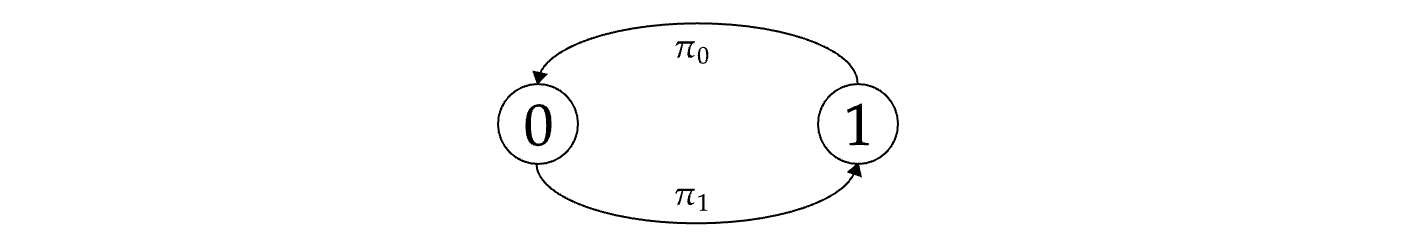
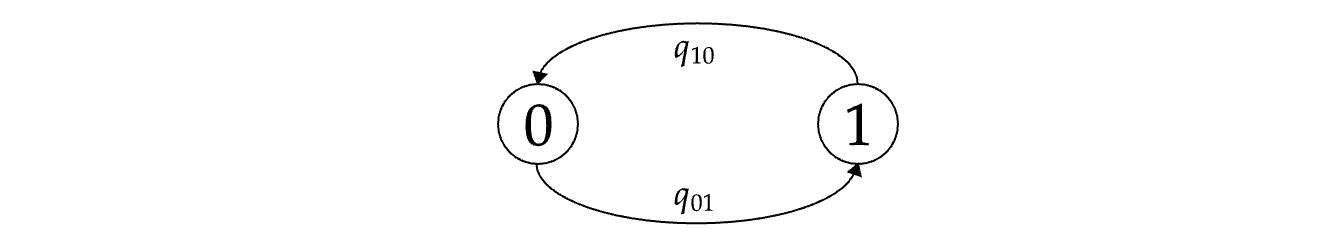
updates from today's writing

diff --git a/report/background/background.tex b/report/background/background.tex
@@ -6,20 +6,20 @@ This chapter provides the mathematical foundation for the simulation study found
 
 \section{Bayesian Phylogenetic Inference}
 \label{sec:phylogenetictrees}
-We start by considering the space of phylogenetic trees $\mathcal{T}$, building on the earlier definitions found in Chapter \ref{sec:introduction}. In particular, we focus our discussion on the space of bifurcating trees that have branches with lengths proportional to time, and assume that lexical data $\mathbf{D}$ can be generated via evolutionary models with parameteres $\boldsymbol{\theta}^* \in \boldsymbol{\Theta}$ on a true tree $T^* \in \mathcal{T}$.
+We start by considering the space of language (or in this case, phylogenetic) trees $\mathcal{T}$, building on the earlier definitions found in Chapter \ref{sec:introduction}. In particular, we focus our discussion on the space of bifurcating trees that have branches with lengths proportional to time, and assume that lexical data $\mathbf{D}$ can be generated via evolutionary models with parameteres $\boldsymbol{\theta}^* \in \boldsymbol{\Theta}$ on a true tree $T^* \in \mathcal{T}$.
 
 When considering phylogenetic trees in a Bayesian setting, 
 a natural starting point is to consider Bayes' theorem in the given context:
 
 \begin{definition} [Bayes' theorem]
-    For a given data set $\mathbf{D} \in [0, 1]^{n \times S}$ and model parameters $\boldsymbol{\theta} \in \boldsymbol{\Theta}$, we consider a tree $T \in \mathcal{T}$. Bayes' theorem states that the probability of the tree given the data and evolutionary model (the \textbf{posterior} probability) is proportional to the probability of observing the data given the tree and the evolutionary model (the \textbf{likelihood}) multiplied by the joint probability of the tree and evolutionary model (the joint \textbf{priors}):
+    For a given data set $\mathbf{D} \in \{0, 1\}^{n \times S}$ and model parameters $\boldsymbol{\theta} \in \boldsymbol{\Theta}$, we consider a tree $T \in \mathcal{T}$. Bayes' theorem states that the probability of the tree given the data and evolutionary model (the \textbf{posterior} probability) is proportional to the probability of observing the data given the tree and the evolutionary model (the \textbf{likelihood}) multiplied by the joint probability of the tree and evolutionary model (the joint \textbf{priors}):
     \begin{align}
         P(T | \mathbf{D}, \boldsymbol{\theta}) &= \frac{P(\mathbf{D} | T, \boldsymbol{\theta})P(T, \boldsymbol{\theta})}{P(\mathbf{D})} \\
         &\propto P(\mathbf{D} | T, \boldsymbol{\theta})P(T,\boldsymbol{\theta}) \label{eq:bayestheorem}
     \end{align}
 \end{definition}
 
-We note that (\ref{eq:bayestheorem}) follows naturally since we can treat $P(\mathbf{D})$ as a constant. Additionally, consider $\boldsymbol{\theta}$ as the set of all model parameters from the evolutionary model and the tree prior. Our goal is to find the posterior distribution $P(T | \mathbf{D}, \boldsymbol{\theta})$, either by direct calculation or by generating samples that follow it. However, due to the intractability of $P(\mathbf{D})$, it is unfeasible to explore the former method. We are therefore required to generate samples (of trees in space $\mathcal{T}$) that take on the posterior distribution. In many Bayesian methods, this requires defining and calculating likelihood $P(\mathbf{D} | T, \boldsymbol{\theta})$ and priors $P(T, \boldsymbol{\theta})$.
+We note that (\ref{eq:bayestheorem}) follows naturally since we can treat $P(\mathbf{D})$ as a (unknown) constant. Additionally, consider $\boldsymbol{\theta}$ as the set of all model parameters from the evolutionary model and the tree prior. Our goal is to model the distribution of trees informed by the data and the parameters, or the posterior distribution $P(T | \mathbf{D}, \boldsymbol{\theta})$, either by direct calculation or by generating samples that follow it. However, due to the intractability of $P(\mathbf{D})$, it is unfeasible to explore the former method. We are therefore required to generate samples (of trees in space $\mathcal{T}$) that take on the posterior distribution. In many Bayesian methods, this requires defining and calculating likelihood $P(\mathbf{D} | T, \boldsymbol{\theta})$ and priors $P(T, \boldsymbol{\theta})$.
 
 \subsection{Tree Priors: Yule models}
 We first consider defining the prior of the model, by decomposing it further as
@@ -28,14 +28,14 @@ We first consider defining the prior of the model, by decomposing it further as
 \end{equation}
 where $P(T|\boldsymbol{\theta})$ represents the tree prior, while $P(\boldsymbol{\theta})$ considers the (joint) distribution of all parameters of the model. While there exists many methods of generating trees, there are only a select few which are applicable in the context of historical linguistics \cite{hoffmann_bayesian_2021}. We limit our discussion to an elaboration of a the Yule model, common tree prior used in Bayesian phylogenetic model.
 
-The Yule model {\color{red} citation needed} can be defined as a pure birth process (see Definition \ref{def:birthprocess}) with a single intensity $\lambda \geq 0$, where $N_t$ refers to the number of branches at time $t$, $N_0 = 1$. We make a distinction here that the model is generated from the ancestral lineage and thus encodes time $0$ as the oldest point of the analysis, while final time $T$ where there are $n$ tips for $n$ languages represents the present. This is contrary to the common representation of time in phylogenetic analysis, where time $0$ represents the present age, or agglomerative tree generation methods like the coalescent process. Conditioning on the tree having $n$ tips and root age $T$, the prior distribution takes on form {\color{red}{citation required}}:
+The Yule model \cite{Yule1925} can be defined as a pure birth process (see Definition \ref{def:birthprocess}) with a single intensity $\lambda \geq 0$, where $N_t$ refers to the number of branches at time $t$, $N_0 = 1$. We make a distinction here that the model is generated from the ancestral lineage and thus encodes time $0$ as the oldest point of the analysis, while final time $T$ where there are $n$ tips for $n$ languages represents the present. This is contrary to the common representation of time in phylogenetic analysis, where time $0$ represents the present age, or agglomerative tree generation methods like the coalescent process. Conditioning on the tree having $n$ tips and root age $T$, the prior distribution takes on form \cite{Gernhard2008}:
 \begin{equation}
 \label{eq:yuleprior}
-    P(T | \lambda, T, n) = n! \lambda^{n-1}\prod_{i=1}^{n-1}\exp(-\lambda T)
+    P(T | \lambda, n) = n! \lambda^{n-1}\prod_{i=1}^{n-1}\exp(-\lambda T)
 \end{equation}
 where $\lambda$ is the only relevant parameter in $\boldsymbol{\theta}$ that affects the tree prior.
 
-\begin{definition} [Birth Process {\color{red} citation needed}]
+\begin{definition} [Birth Process \cite{Durrett2016}]
 \label{def:birthprocess}
 A birth process with intensity $\lambda \geq 0$ is a continuous-time stochastic process $\{N_t\}_{t \geq 0}$ with values in $\mathbb{N}_0$ that satisfies:
 \begin{enumerate}
@@ -53,9 +53,10 @@ A birth process with intensity $\lambda \geq 0$ is a continuous-time stochastic 
 where function $f$ is $o(\delta)$ if $\lim\limits_{\delta \to 0^+} \frac{f(\delta)}{\delta} = 0$.
 \end{definition}
 
-This model, as with all tree priors, incorporates the linguistic assumption that language diversify through repeated divergence events without horizontal transfer. As such, this adds a slight complexity to data generation: words or lexical items that are borrowed must be removed, which may require further linguistic arguments to determine \cite{Campbell2004}. We also note that due to the single arrival characteristic of Yule model, only bifurcating trees are generated. Moreover, since the model does not allow for deaths to occur, the model generates rooted binary trees whose tips are all extant languages. This means that all trees generated by the Yule model are \textit{ultrametric}, where the distance from (or age of) the root from every language is identical. {\color{red} maybe it's worth having a figure for ultrametric trees?} This presents an additional assumption of employing such a method: all languages are assumed to be extant at the present age. While this reduces the complexity of the model and reduces the number of parameters introduced by the tree prior (and thus simplifying (\ref{eq:yuleprior})), this means that any dataset that includes extinct languages in its dataset is misspecified by such a model and may introduce bias, especially with respect to rates of evolution and node ages \cite{hoffmann_bayesian_2021}. As such, other tree priors like birth-death processes would be of interest {\color{red} citation needed}. For the purposes of this simulation study, we will assume that all languages are extant.
+This model, as with all tree priors, incorporates the linguistic assumption that language diversify through repeated divergence events without horizontal transfer. As such, this adds a slight complexity to data generation: words or lexical items that are borrowed must be removed, which may require further linguistic arguments to determine \cite{Campbell2004}. We also note that due to the single arrival characteristic of Yule model, only bifurcating trees are generated. Moreover, since the model does not allow for deaths to occur, the model generates rooted binary trees whose tips are all extant languages. This means that all trees generated by the Yule model are \textit{ultrametric}, where the distance from (or age of) the root from every language is identical. {\color{red} maybe it's worth having a figure for ultrametric trees?} This presents an additional assumption of employing such a method: all languages are assumed to be extant at the present age. While this reduces the complexity of the model and reduces the number of parameters introduced by the tree prior (and thus simplifying (\ref{eq:yuleprior})), this means that any dataset that includes extinct languages in its dataset is misspecified by such a model and may introduce bias, especially with respect to rates of evolution and node ages \cite{hoffmann_bayesian_2021}. As such, other tree priors like birth-death processes would be of interest \cite{Gernhard2008}. For the purposes of this simulation study, we will assume that all languages are extant.
 
 \subsection{Evolution Model: Continuous-Time Markov Models}
+\label{sec:ctmc}
 Having defined the tree prior, evolutionary models attempt to explain the presence or absence of sites across the languages of the model. Since the data is binary, we need only consider two types of states: the presence (1) or absence (0) of a site. As the model is defined on continuous time, the binary continuous-time Markov chain (CTMC) model is a natural method to define the evolutionary process.
 
 Several assumptions have to be made to employ such a model. Firstly, the evolutionary process assumes the Markov property (see Definition \ref{def:markov}), which can be clearly justified in the context of historical linguistics. This induces the infinitesimal rate (or \textit{generator}) matrix $\mathbf{G} := (g_{ij})$ (see Definition \ref{def:generator}), which results in a time-dependent transition probability matrix to be the entries of the matrix\footnote{See Appendix \ref{app:transprob} for full proof of \ref{eq:transitionmatrixevolution}.}:
@@ -64,16 +65,16 @@ Several assumptions have to be made to employ such a model. Firstly, the evoluti
     \mathbf{P}(t) = \exp(\mathbf{G}t).
 \end{equation}
 
-\begin{definition} [Markov Property {\color{red} citation needed}]
+\begin{definition} [Markov Property \cite{Durrett2016}]
 \label{def:markov}
     A continuous-time process $\{X_t\}_{t \geq 0}$ defined on state space $E = \{0, 1\}$ satisfies the Markov property if 
     \begin{equation}
         P\left(X_{t_n} = i_n | X_{t_{n-1}} = i_{n-1}, \dots, X_{t_1} = i_{n-1}\right) = P\left(X_{t_n} = i_n | X_{t_{n-1}} = i_{n-1}\right),
     \end{equation}
-    for all $i_1, \dots i_n \in E, \ 0 \leq t_1 < \cdots < t_n < \infty$, where $n \in \mathbb{N}$.
+    for all $i_1, \dots, i_n \in E, \ 0 \leq t_1 < \cdots < t_n < \infty$, where $n \in \mathbb{N}$.
 \end{definition}
 
-\begin{definition} [Generator {\color{red} citation needed}]
+\begin{definition} [Generator \cite{Durrett2016}]
 \label{def:generator}
     The generator $\mathbf{G} := (g_{ij})_{i, j \in E}$ of the family of transition probability matrices $\{\mathbf{P}_t | t\geq 0 \}$ is given as 
     \begin{equation}
@@ -104,7 +105,24 @@ where the $-$ are the conventional notation used implied diagonal entries as def
     \label{fig:markovchain}
 \end{figure}
 
-For a simulation study, the generation of data through such evolutionary processes require particular consideration. For a given tree $T$, at each site, the state at the root is sampled and propagated down the tree via the CTMC model along each branch that has transition probabilities $\mathbf{P}(t)$ via (\ref{eq:transitionmatrixevolution}). This results in the generation of the site $\mathbf{D}_i$. If the assumption of conditional site independence is held, the process is repeated for every single site until the full binary data matrix $\mathbf{D} \in [0, 1]^{n \times S}$ is generated. This generation process is defined in Algorithm \ref{algo:ctmcdatageneration}. 
+We are thus able to calculate the likelihood $P(\mathbf{D}|T, \boldsymbol{\theta})$ for the model. For the sake of demonstration, we illustrate the likelihood only for a single site $\mathbf{D}_i$, saving full derivations for $\mathbf{D}$ in Sections \ref{sec:independent} and \ref{sec:dependent}. Given the binary phylogenetic tree $T = (V, E, r)$ with $n$ observed languages, where sites evolve via a binary CTMC with generator $\mathbf{G}$ and stationary distribution $\boldsymbol{\pi}$, the likelihood for a site $\mathbf{D}_i$ is
+
+\begin{align}
+    P(\mathbf{D}_i | T, \mathbf{G}, \boldsymbol{\pi}) &= \sum_{\mathbf{x}_W \in \{0, 1\}^{|W|}} P(\mathbf{D}_i, \mathbf{x}_W | T, \mathbf{G}, \boldsymbol{\pi}) \\
+    &= \sum_{\mathbf{x}_W \in \{0, 1\}^{|W|}} P(X_r = x_r) P(\mathbf{D}_i, \mathbf{x}_{W \setminus \{r\}} | T, \mathbf{G}, X_r = x_r) \\
+    &= \sum_{\mathbf{x}_W \in \{0, 1\}^{|W|}} P(X_r = x_r) \prod_{(u, v) \in E} P(X_v = x_v | X_u = x_u), 
+\end{align}
+
+where $X_u$ is the random variable of the state at node $u$, and we employed the Markov property of the CTMC model. As defined previously, the first term corresponds to the stationary distribution $\boldsymbol{\pi}$ This reduces the problem to calculating transition probabilities, where (\ref{eq:transitionmatrixevolution}) is most relevant. This gives the expression
+
+\begin{align}
+    P(\mathbf{D}_i | T, \mathbf{G}, \boldsymbol{\pi}) &= \sum_{\mathbf{x}_W \in \{0, 1\}^{|W|}} \pi_{x_r} \prod_{(u, v) \in E} \mathbf{P}(t_{u\to v})_{x_u x_v} \\
+    &= \sum_{\mathbf{x}_W \in \{0, 1\}^{|W|}} \pi_{x_r} \prod_{(u, v) \in E} \exp(\mathbf{G}t_{u\to v})_{x_u x_v} \label{eq:sitelikelihood}
+\end{align}
+
+This decomposition is inefficient for large values of $n$: the set of internal nodes $W$ grows linearly with $n$, thus exponentially increases the number of internal terms in the sum of (\ref{eq:sitelikelihood}). Felsenstein (1973) introduced an efficient ``pruning'' method {\cite{Felsenstein1973}}, exploiting the structure of the tree to recursively evaluate likelihoods of subtrees \cite{Felsenstein2004}. This allows for efficient likelihood calculation that grows linearly rather than exponentially with $n$.
+
+For a simulation study, the generation of data through such evolutionary processes require particular consideration. For a given tree $T$, at each site, the state at the root is sampled and propagated down the tree via the CTMC model along each branch that has transition probabilities $\mathbf{P}(t)$ via (\ref{eq:transitionmatrixevolution}). This results in the generation of the site $\mathbf{D}_i$. If the assumption of conditional site independence is held, the process is repeated for every single site until the full binary data matrix $\mathbf{D} \in \{0, 1\}^{n \times S}$ is generated. This generative process is defined in Algorithm \ref{algo:ctmcdatageneration}. 
 
 \begin{algorithm}
 \SetAlgoLined
@@ -114,7 +132,7 @@ For a simulation study, the generation of data through such evolutionary process
 \SetKwProg{Fn}{Function}{}{end}
 \LinesNumbered
 \KwInput{
-    $T$, fixed topology tree with root $r$ of $n$ languages, where each edge $e$ has branch length $t_e$, \\
+    $T$, fixed topology tree with root $r$ of $n$ languages, where each edge $e := (u \to v)$ has branch length $t_e$, \\
     $\mathbf{G}$, rate matrix with parameters $\beta\pi_0, \beta\pi_1$, \\
     $\boldsymbol{\pi}$, stationary distribution of CTMC, \\
     $S$, number of sites of data.
@@ -124,55 +142,179 @@ For a simulation study, the generation of data through such evolutionary process
 \KwOutput{$\mathbf{D} \in [0,1]^{n\times S}$, where sites are columns $\mathbf{D}_1, \dots, \mathbf{D}_S$.}
 \BlankLine
 
-\Fn{Propagate(parent $p$, $\mathbf{G}$, children $(c_1, c_2)$, edge lengths $(t_{p \to c_1}, t_{p \to c_2})$)} {
-    \textbf{if} no children, \textbf{then} \Return; \\
-    $P_p = \exp(\mathbf{G}t_p)$; \\
-    $X_{c_1}, X_{c_2} \sim P_p(X_p, \cdot)$ independently; \\
-    \textit{Propagate}($c_1$, $\mathbf{G}$, children of $c_1$, corresponding edge lengths); \\
-    \textit{Propagate}($c_2$, $\mathbf{G}$, children of $c_2$, corresponding edge lengths);
+\Fn{Propagate($v$, $x_v$)}{
+    \For{each child $c$ of $v$}{
+        Let $e = (v \to c)$ with branch length $t_e$; \\
+        Compute transition matrix $P_e = \exp(\mathbf{G} t_e)$; \\
+        Sample:
+        \[
+        x_c \sim P_e(x_v, \cdot)
+        \] \\
+        \textit{Propagate}($c$, $x_c$);
+    }
 }
 \BlankLine
-\Fn{SiteGeneration($T$, $\mathbf{G}$, $\boldsymbol{\pi}$)} {
-    Sample root state $X_r \sim \boldsymbol{\pi}$; \\
-    \textit{Propagate}($r$, $\mathbf{G}$, children of $r$, corresponding edge lengths); \\
-\Return $\mathbf{D}_i = (X_1, \dots X_n)^T$
+\Fn{SiteGeneration($T$, $\mathbf{G}$, $\boldsymbol{\pi}$)}{
+    Sample root state:
+    \[
+    x_r \sim \boldsymbol{\pi}
+    \] \\
+    \textit{Propagate}($r$, $x_r$); \\
+    \Return vector of language states $(x_1, \dots, x_n)^T$
 }
 \BlankLine
-\textbf{for} $i = 1, ... S$ \textbf{do} $\mathbf{D}_i$ = \textit{SiteGeneration}(T, $\mathbf{G}$, $\boldsymbol{\pi}$)
-\BlankLine
+\For{$i = 1, \dots, S$}{
+    $\mathbf{D}_i \leftarrow$ \textit{SiteGeneration}($T$, $\mathbf{G}$, $\boldsymbol{\pi}$)
+}
+
 \Return $\mathbf{D} = (\mathbf{D}_1 \cdots \mathbf{D}_S)$
+
 
  \caption{Data Generation from binary CTMC model}
  \label{algo:ctmcdatageneration}
 \end{algorithm}
 
-{\color{red} good and bad of the model}
+The binary CTMC model is highly favoured since it is highly parsimonious and is computationally tractable. The evolution model introduces few parameters as discussed above, making likelihood calculations and thus Bayesian phylogenetic inference more efficient. However, these constraints insert more assumptions about the homogeneity and memorylessness properties of transitions between only two states, which may be an oversimplification of the complexity of evolution in real languages. Studies have shown that more complex models such as the binary covarion model \cite{Tuffley1998} perform better on linguistic data through allowing slow and fast rates of change \cite{hoffmann_bayesian_2021}. 
 
-{\color{red} Rate variation: Am i even doing that} 
+For the context of the simulation study conducted in this thesis, we limit our discussion and implementation to the binary CTMC. This provides a powerful baseline model to study the effects of model misspecification, where more complex evolutionary models can be discussed in future work.
+
+\subsection{Rate Variation}
+\label{sec:ratevariation}
+As noted by Bergsland and Vogt (1962), the rates of evolution across lineages and subsets of data varies considerably \cite{Bergsland1962}. For example, sites belonging to a meaning with few cognates have been shown to empirically evolve more slowly than a meaning with many cognates \cite{Pagel2006}. In order to accommodate for this, a site-specific rate multiplier $r_i$ is included in (\ref{eq:transitionmatrixevolution}). This includes $S$ more parameters for model, where the method of generating these rates (and thus their priors) is most commonly a Gamma distribution with mean $1$ and shape parameter $\alpha$ \cite{hoffmann_bayesian_2021}. Such a method preserves the expected rates, while allowing for substantial variation across sites. In practice, this improves the model by measuring heterogeneity of site evolution, which may support fitting real language data. 
+
+For the sake of the simulation study contained within this thesis, rate variation is intentionally excluded - all sites are assumed to evolve with a fixed rate $r_i = 1$. This is a design choice, with an objective to isolate the effects of model misspecification through conditional site independence. Allowing the rate variation would introduce additional structure that could confound inference, making it difficult to attribute observed effects as due to the violation of conditional site independence. This reduces the model to a \textit{homogeneous} CTMC model instead.
 
 \subsection{Posterior Sampling with Markov Chain Monte Carlo methods}
 \label{sec:mcmc}
-\subsection{Likelihood Computation}
-\label{sec:likelihoodcomputation}
+Having discussed the prior and likelihood probabilities, we are now well equipped to discuss sampling from the posterior.  As mentioned prior, the normalising constant of the posterior is often difficult to compute, which makes analytic expressions of the posterior distribution inaccessible. However, there are additional considerations in the context of historical linguistics, even if one were to apply a sampling based method. The size of the space of all possible binary phylogenetic trees $\mathcal{T}$ grows \textit{super}-exponentially (that is, grows at a rate faster than exponential increase) with the number of languages $n$ \cite{Schroeder1870}. In fact, the problem of finding the optimal tree is \textit{NP-hard} \cite{Foulds1982}. Moreover, the priors are defined on both discrete and continuous distributions, complicating the analysis of the model.
+
+These challenges motivate the use of simulation-based approaches to approximate the posterior distribution. Bayesian phylogenetic inference commonly relies on Markov Chain Monte Carlo (MCMC) methods to generate samples from $p^\star := P(T | \mathbf{D}, \boldsymbol{\theta})$ without the explicit computation of the normalising constant of ($\ref{eq:bayestheorem}$). The method attempts to construct a Markov chain of trees (and parameters) whose stationary distribution $\boldsymbol{\pi}$ is equal to $p^\star$, such that states of the chain are regarded as (dependent) samples from the posterior distribution. More formally, suppose we initialise the chain at some $\mathbf{z}^{(0)} = \{T^{(0)}, \boldsymbol{\theta}^{(0)}\}$, we generate chain $\{\mathbf{z}^{(1)}, \dots, \mathbf{z}^{(t)}, \dots\}$ such that $T^{(t)} \sim p^\star$ after the chain is allowed to mix for an amount of time called the \texttt{burnin}. 
+
+This subsection aims to explain the methodology used in MCMC. In practice, these considerations within the algorithm have been neatly summarised in packages and applications such as BEAST, which will be discussed in Section \ref{sec:beast}.
+
+As the name of the algorithm suggests, the model generates a chain which fulfills the Markov property. This means that, given a current sample $\mathbf{z}^{(n)}$, in order to determine the next sample $\mathbf{z}^{(n+1)}$, we propose some $\mathbf{z}' \sim q(\cdot | \mathbf{z}^{(n)})$ by some \textit{proposal distribution} $q$, before assessing whether the proposal is suitable. 
+
+This proposal distribution $q$ is clearly multivariate in the context of historical linguistics, generating a new tree $T \in \mathcal{T}$ but also other parameters $\boldsymbol{\theta} \in \boldsymbol{\Theta}$. We assume that $q$ can be decomposed into independent proposals, particularly of $T$, and that all other parameters $\boldsymbol{\theta}$ can be proposed in a straightforward manner via conventional probability distributions. The proposal of a new tree $T'$ given tree $T^{(n)}$ is clearly non-trivial due to its non-Euclidean nature and requires extra treatment. There are many methods, such as the Nearest Neighbour Interchange (NNI) \cite{Li1996}, the Subtree Prune and Regraft (SPR) \cite{Hillis1996} and time-scaling operations, that generate a stochastic walk over the tree space $\mathcal{T}$. 
+
+Once the proposal $\mathbf{z}' = \{ T', \boldsymbol{\theta}' \}$ has been chosen via the proposal distribution $q$, it is evaluated based on an acceptance probability:
+
+\begin{align}
+    \alpha(\mathbf{z}^{(n)}, \mathbf{z}') &= \min \Bigg\{1, \frac{p^\star(\mathbf{z}')q(\mathbf{z}^{(n)}|\mathbf{z}')}{p^\star(\mathbf{z}^{(n)})q(\mathbf{z}'|\mathbf{z}^{(n)})}\Bigg\} \\
+    &= \min \Bigg\{1, \frac{P(\mathbf{D} | \mathbf{z}')P(\mathbf{z}')q(\mathbf{z}^{(n)}|\mathbf{z}')}{P(\mathbf{D} | \mathbf{z}^{(n)}))P(\mathbf{z}^{(n)}))q(\mathbf{z}'|\mathbf{z}^{(n)})}\Bigg\},\label{eq:mhacceptance}
+\end{align}
+
+that determines whether we accept the proposal as the next sample or not:
+\begin{align}
+    \mathbf{z}^{(n+1)} = \begin{cases}
+        \mathbf{z}' & \text{with probability } \alpha(\mathbf{z}^{(n)}, \mathbf{z}') \\
+        \mathbf{z}^{(n)} & \text{with probability } 1 - \alpha(\mathbf{z}^{(n)}, \mathbf{z}').
+    \end{cases}
+\end{align}
+
+Equation \ref{eq:mhacceptance} is paramount to the MCMC algorithm, state in full in Algorithm \ref{algo:mh}. The acceptance ratio is designed such that the resulting Markov chain $\{\mathbf{z}^{(1)}, \dots, \mathbf{z}^{(t)}, \dots\}$ has stationary distribution $p^\star$\footnote{The proof of which can be found in {\color{red} either prove it in Appendix B or link a proof of it}.}. Crucially, the method does not require the knowledge of marginal probability $P(\mathbf{D})$, which allows the acceptance probabilities to be easily calculated by decomposition of the posterior probabilities into the likelihood and prior probabilities. 
+
+% MCMC Algorithm
+\begin{algorithm}
+\SetAlgoLined
+\SetKwInOut{KwInput}{Input}
+\SetKwInOut{KwOutput}{Output}
+\SetKw{Return}{return}
+\SetKwProg{Fn}{Function}{}{end}
+\LinesNumbered
+\KwInput{
+    $N$, number of samples to be generated, \\
+    $\mathbf{z}^{(0)}$, starting point of Markov chain.
+}
+
+\BlankLine
+\KwOutput{$\mathbf{Z} = \{\mathbf{z}^{(1)}, \dots, \mathbf{z}^{(N)}\}$, resulting Markov chain with stationary distribution $p^\star$.}
+\BlankLine
+\For{$n = 1, \dots, N$}{
+    Sample proposal $\mathbf{z}' \sim q(\mathbf{z}^{(n-1)})$; \\
+    Calculate acceptance probability $\alpha(\mathbf{z}^{(n-1)}, \mathbf{z}')$ as in (\ref{eq:mhacceptance}); \\
+    Sample $u \sim \text{Uniform}[0, 1]$ \\
+    \eIf{$u < \alpha(\mathbf{z}^{(n-1)}, \mathbf{z}')$}{
+    \text{Accept Proposal: }
+    $\mathbf{z}^{(n)} \leftarrow \mathbf{z}'$;
+    }{
+    \text{Reject Proposal: }
+    $\mathbf{z}^{(n)} \leftarrow \mathbf{z}^{(n-1)}$;
+    }
+}
+
+\Return $\mathbf{Z} = \{\mathbf{z}^{(1)}, \dots, \mathbf{z}^{(N)}\}$
+
+
+ \caption{Metropolis-Hastings (MCMC) algorithm, adapted from \cite{Douc2019}.}
+ \label{algo:mh}
+\end{algorithm}
+
+As such, MCMC methods are elegant yet practical algorithms to resolve the issues faced in Bayesian phylogenetic inference. The method itself also allows for a natural quantification of uncertainty through the discretisation of the posterior distribution. Furthermore, the method is highly flexible and can incorporate models and priors more complex than has been discussed in Section \ref{sec:bayesianphylomethods} so far.
+
+However, MCMC methods suffer from several limitations. Given the Markov structure of the chain, proposals cannot be conducted and evaluated in parallel. The Markov structure also causes samples to be highly dependent, requiring a large number of iterations. These two limitations constrain MCMC methods to require a large number of samples, thus requiring much computational runtime. Additionally, inference may be sensitive to poor mixing and multimodality of the posterior distribution, which is a common issue considering the space of phylogenetic trees $\mathcal{T}$.
+
+In particular, the algorithm does not guard against model misspecification issues. For example, if the likelihood function is misspecified through the violation of the conditional site independence critierion, the model does not address the potential biases arising from violations of the underlying modelling assumptions.
+
+
+
 \subsection{Implementation in BEAST}
 \label{sec:beast}
+There are many packages available for practical implementations of MCMC methods on phylogenetic trees, one of which is the \textit{Bayesian Evolutionary Analysis Sampling Trees}, or BEAST algorithm \cite{beast_documentation}. Given the observed cognate data, BEAST samples from the posterior distribution and constructs a Markov chain as described in this section. In particular, tree space $\mathcal{T}$ is explored through a collection of local and global proposal operators to facilitate sufficient exploration. The package incorporates high performance computing methods \cite{beagle_documentation} outside the scope of this thesis that ensures an efficient practical implementation of the inference process.
+
+In this thesis, BEAST is used as the inference engine for all inferences as detailed in Chapter \ref{sec:methods}. This enables a scalable and streamlined pipeline for direct assessment of the effect of model misspecification through conditional site dependence.
 
 \section{Independent Paradigm}
 \label{sec:independent}
-        likelihood calculations, quality checks and convergence guarantees under such a model 
-        
-        can make this section + model misspecification its own chapter if its too long
+Having discussed the entire methodology to recover phylogenetic trees, we examine the conditional site independence assumption in more detail. In particular, the effects of imposing the assumption in data generation, likelihood and posterior calculations and effective information brought forward by the (generated) data $\mathbf{D}$ will be considered. 
+
+Under the \textit{independent paradigm}, that is, where the conditional site independence assumption is imposed, data generation for the simulation study is conducted in a straightforward manner as discussed in Section \ref{sec:ctmc}. In particular, Algorithm \ref{algo:ctmcdatageneration} is implemented to generate independent sites $\mathbf{D}_i$ for $i = 1, ..., S$, which ensures site independence throughout the data. 
+
+We return to the likelihood calculations in (\ref{eq:sitelikelihood}). Clearly, on considering the full dataset $\mathbf{D}$, we can decompose the probability into a product of likelihood calculations at each site:
+\begin{align}
+    P(\mathbf{D} | T, \boldsymbol{\theta}) &= \prod_{i=1}^S P(\mathbf{D}_i | T, \boldsymbol{\theta}) \\
+    &= \prod_{i=1}^S P(\mathbf{D}_i | T, \mathbf{G}, \boldsymbol{\pi}) \label{eq:independentbreakdown}
+    %&= \prod_{i=1}^S \left[\sum_{\mathbf{x}^{(i)}_W \in \{0, 1\}^{|W|}} \pi_{x^{(i)}_r} \prod_{(u, v) \in E} \exp(\mathbf{G}t_{u\to v})_{x_u x_v}\right]
+\end{align}
+This reduces the likelihood calculations (and thus also the posterior calculations) related to the independent paradigm to the simpler problem of calculating likelihoods of individual sites, where we only require Felsenstein's pruning algorithm as described in Section \ref{sec:ctmc}. 
+
+Intuitively, the independent paradigm also suggests that every new site provides an equal amount of information. As such, we can assume that as $S$ increases, the rate of increase of variance of sites should linearly increase. {\color{red} thinking if i should put in the effort to do this effective sample size thing. im too tired at this junction to think about math}.
+
+{\color{red} is it worth talking about the benefits here? probably not, but a light one if i think yes}
+
 \section{Dependent Paradigm}
 \label{sec:dependent}
-\subsection{ZIP Construction}
-\subsection{CTMC Product Construction}
-Transition diagram
-\subsection{Likelihood Computation}
+We turn our attention to the \textit{dependent paradigm}, where sites are not assumed to be generated independently from each other. The main implication of relaxing this assumption is that the decomposition in (\ref{eq:independentbreakdown}) is now invalid - we now have to consider how sites may interact with each other to determine the correct likelihood structure.
 
+While there are many approaches to construct such dependencies within simulated data $\mathbf{D}$, we focus our discussion on a methodology such that sites are generated in a hierarchial format. We construct $L$ tiers of data, where data from Tier $1$ refers to independently generated sites, while data from Tier $l = 2, ..., L$ are sites that are dependent on certain sites from Tier $l-1$. {\color{red} A diagram of the dependent data generation methodology is described in Figure \ref{fig:dependentgeneration}.} 
+
+\begin{figure}
+    \centering
+    % Probably a tikz picture?
+    % \includegraphics[width=0.5\linewidth]{}
+    \caption{A hierarchial approach to dependent site generation with $L$ tiers.}
+    \label{fig:dependentgeneration}
+\end{figure}
+
+This method thus requires us to answer two design questions:
+\begin{enumerate}
+    \item How does each site in Tier $l$ \textit{choose} which site (which we will call the \textit{parent} site) in Tier $l-1$ to depend on?
+    \item Upon choosing a parent site from Tier $l-1$, how is each dependent site (which we call the corresponding \textit{child} site) in Tier $l$ generated given the parent site?
+\end{enumerate}
+The answers to these questions then define the manner in which data is generated, and thus how likelihoods will be calculated. For the purposes of this simulation study, we generate dependencies via the Zero-Inflated Poisson (ZIP), discussed in Section \ref{sec:zip}, and generate dependent site values by considering the product of the result of CTMC runs, discussed in Section \ref{sec:ctmcproduct}.
+
+This method in particular is highly relevant to related works on dependent data. This hierarchial dependency structure corresponds to the issue posed by Maddison's red/blue tail problem \cite{Maddison1993}, where $L = 2$. Additionally, in the context of Bayesian phylolinguistic analysis, Buckley et al. (2025) considered loom data that also exhibited the same structure \cite{Buckley2025}, this time with $L = 4$. {\color{red} it might be worth saying that critics of the paper drew concerns about the model being misspecified on such data.} Consequently, investigating the extent of impact of applying Bayesian phylogenetic models, which assume conditional site independence, to hierarchially dependent data provides a frame of reference for assessing the consequences of model misspecification in settings where site dependencies are known or suspected to exist. Such analyses can thus address concerns of applying standard Bayesian phylogenetic models to data which exhibit such hierarchial dependency structures.
+
+\subsection{ZIP Construction}
+\label{sec:zip}
+{\color{red} define the ZIP poisson, FIND LITERATURE THAT DISCUSSES THIS MAYBE ON WIKIPEDIA, expectation and variance, maybe even a diagram if previous figure is not as descriptive on generation method}
+\subsection{CTMC Product Construction}
+\label{sec:ctmcproduct}
+{\color{red} Explanation of CTMC product. Derivation of transition diagram and thus exponential rates across two tiers (maybe more information needs to be derived?), and corresponding transition diagram. maybe something in between but im not sure. anyway end with the full algorithm for generating the data.}
+\subsection{Likelihood Computation}
+{\color{red} probably want to do a high level breakdown of how the likelihood should decompose, and then consider the case where we only have two sites, one dependent on the other, as a proof of concept of how everything else should cascade down.}
 \subsection{Model Misspecification}
 \label{sec:misspecification}
-    Model misspecification induced by dependence
-        Data generation under P\_dependent but being evaluated on model under P\_independent
+    {\color{red} Final bits about effective information if im going to talk about that. Attractiveness of the independent model - why would we even want to misspecify the model in the first place? it means the dependent model is too infeasibly difficult to explicitly calculate. thus what level of error are we willing to accept? yeah so i might want to make this its own section.}
 
 \section{Evaluation Metrics}
 \label{sec:evalmetrics}
@@ -184,12 +326,3 @@ Transition diagram
         Autocorrelation, and thus ESS 
         Mixing of chains (visual) 
         Thinning of data perhaps 
-
-\section{ (TBD) helpful things (subequations, algorithms)}
-To write equations over multiple lines (like systems of equation or equations too long to fit the page), one can use the \textit{align} environment coupled to the \textit{subequations} environment like so
-\begin{subequations}
-\begin{align}
-    \mathbb{P}(0 \leadsto -a) &= D\int_0^\infty dt\, k_r e^{-k_r t}\int_0^t d\tau\,\partial_x u \big|_{x=-a}, \\
-    \mathbb{P}(0 \leadsto b) &= -D\int_0^\infty dt\, k_r e^{-k_r t}\int_0^t d\tau\,\partial_x u \big|_{x=b}.
-\end{align}
-\end{subequations}

diff --git a/report/introduction/introduction.tex b/report/introduction/introduction.tex
@@ -237,7 +237,7 @@ where $r = 0.81$ represents the estimated proportion of lexical items retained p
 
 \section{Bayesian Phylogenetic Methods}
 \label{sec:bayesianphylomethods}
-Advanced quantitative methods have gained in popularity in recent years, in part due to advances in statistical methods, increased computational power and larger datasets \cite{Bhattacharya2018}. Through the seminal work of Gray and Atkinson (2003), Bayesian frameworks have become the primary method to infer topologies $T$ from $\mathbf{D}$. In particular, Gray and Atkinson (2003) compared languages to genes, thus applying phylogenetic methods from evolutionary biology to linguistic data \cite{Gray2003}. A Markov chain Monte Carlo (MCMC, see Section \ref{sec:bayesandmcmc}) method under a Bayesian framework was used to quantify uncertainty of the estimates, while applying a rate smoothing algorithm to relax the assumption of a universal constant $r$ as in \cite{Swadesh1952}. Such a method was applied on cognate data from 87 Indo-European languages to justify the age of the Proto-Indo-European root \cite{Gray2003}. 
+Advanced quantitative methods have gained in popularity in recent years, in part due to advances in statistical methods, increased computational power and larger datasets \cite{Bhattacharya2018}. Through the seminal work of Gray and Atkinson (2003), Bayesian frameworks have become the primary method to infer topologies $T$ from $\mathbf{D}$. In particular, Gray and Atkinson (2003) compared languages to genes, thus applying phylogenetic methods from evolutionary biology to linguistic data \cite{Gray2003}. A Markov chain Monte Carlo (MCMC, see Section \ref{sec:mcmc}) method under a Bayesian framework was used to quantify uncertainty of the estimates, while applying a rate smoothing algorithm to relax the assumption of a universal constant $r$ as in \cite{Swadesh1952}. Such a method was applied on cognate data from 87 Indo-European languages to justify the age of the Proto-Indo-European root \cite{Gray2003}. 
 
 The application of phylogenetic analysis in language evolution is a natural extension to the language tree diagrams (which we will denote phylogenetic trees or phylogenies from here on) introduced in Section \ref{sec:trees}. Historical linguistics has long understood language diversification as a branching process where descendant languages emerge through gradual divergence from common ancestral forms \cite{Pellard2026}, making language evolution almost analogous to genetic evolution in the diversification process. Consequently, computational techniques originally developed in evolutionary biology, such as likelihood-based inference and Bayesian tree reconstruction can be adapted to linguistic data \cite{Greenhill2009}. 
 
@@ -247,7 +247,7 @@ However, it would be unwise to blindly apply these methods directly to linguisti
 
 \subsection{Assumptions and Site Independence}
 We save most of the technical analysis of the Bayesian phylogenetic method to Section 
-\ref{sec:background} and focus our attention on assumptions of interest:  
+\ref{sec:background} and focus our attention here on assumptions of interest:  
 \begin{enumerate}
     \item Data Generation: Data $\mathbf{D} \in [0, 1]^{n \times S}$ is generated with respect to true tree $T^*$ and parameters $\boldsymbol{\theta}^*$ of the evolutionary model, which the Bayesian phylogenetic method will attempt to recover.
     \item Tree \& Model Priors: The trees $T \in \mathcal{T}$ and parameters $\boldsymbol{\theta} \in \boldsymbol{\Theta}$ are defined via prior distributions $p\left(T\right), p(\boldsymbol{\theta})$ respectively.
@@ -258,7 +258,7 @@ We save most of the technical analysis of the Bayesian phylogenetic method to Se
 
 These assumptions allow us to define a standard Bayesian phylogenetic framework, which inference is conducted through recovering posterior distributions over trees and the parameters given data $\mathbf{D}$. We consider the validity of these assumptions in the context of historical linguistics.
 
-Firstly, the data generation assumption encodes the notion that all data arises from a single underlying \textit{true} evolutionary process on a single latent tree $T^*$ with model parameters $\boldsymbol{\theta}^*$. While this is idealistic at best, the assumption is made to allow structured inference about genealogical relationships, provided the evolutionary (or vertical) processes dominate the signal rather than the horizontal transfers like borrowing. In this sense, the inferred tree should be interpreted as the best-supported explanation of the observed data under the assumed model, rather than as a uniquely determined historical object. This is usually reconciled by comparing results with archaeological and historical data \cite{Gerardi2023}.
+Firstly, the data generation assumption encodes the notion that all data arises from a single underlying \textit{true} evolutionary process on a single latent tree $T^*$ with model parameters $\boldsymbol{\theta}^*$. While this is idealistic at best, the assumption is made to allow structured inference about genealogical relationships, provided the evolutionary (or vertical) processes dominate the signal rather than the horizontal transfers like borrowing \cite{Felsenstein2004}. In this sense, the inferred tree should be interpreted as the best-supported explanation of the observed data under the assumed model, rather than as a uniquely determined historical object. This is usually reconciled by comparing results with archaeological and historical data \cite{Gerardi2023}.
 
 Similarly, the use of priors over trees and parameters serves to encode minimal structural assumptions about the model. Given the enormous space of possible tree topologies $\mathcal{T}$ and parameters relating to evolutionary processes, prior distributions ensures that inference remains well-posed. Furthermore, Gray and Atkinson (2003), in their seminal paper, also note the robustness of the method to different priors \cite{Gray2003}, signalling that prior selection is not a particular concern with respect to model misspecification.
 
